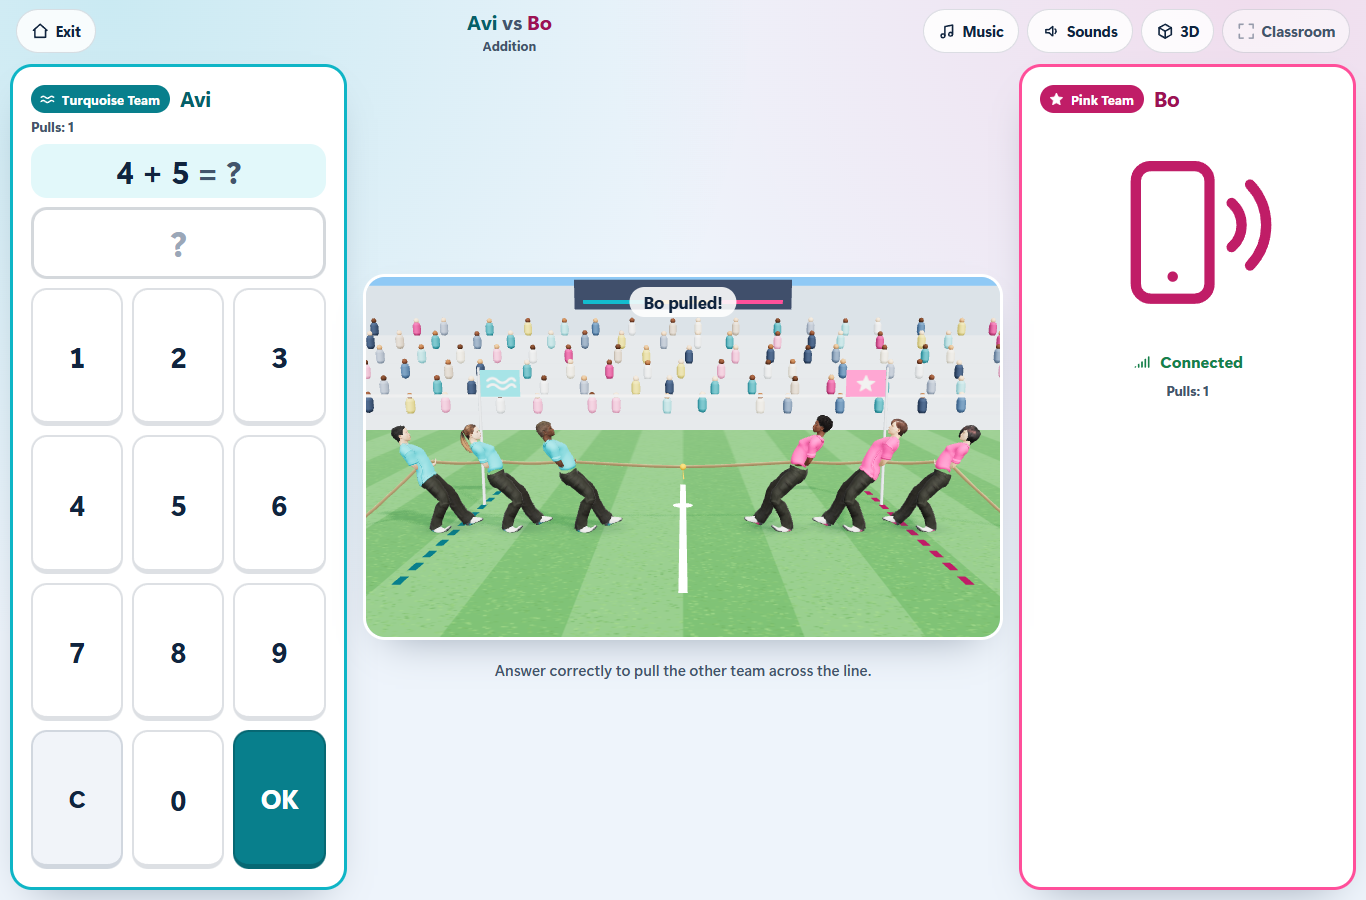
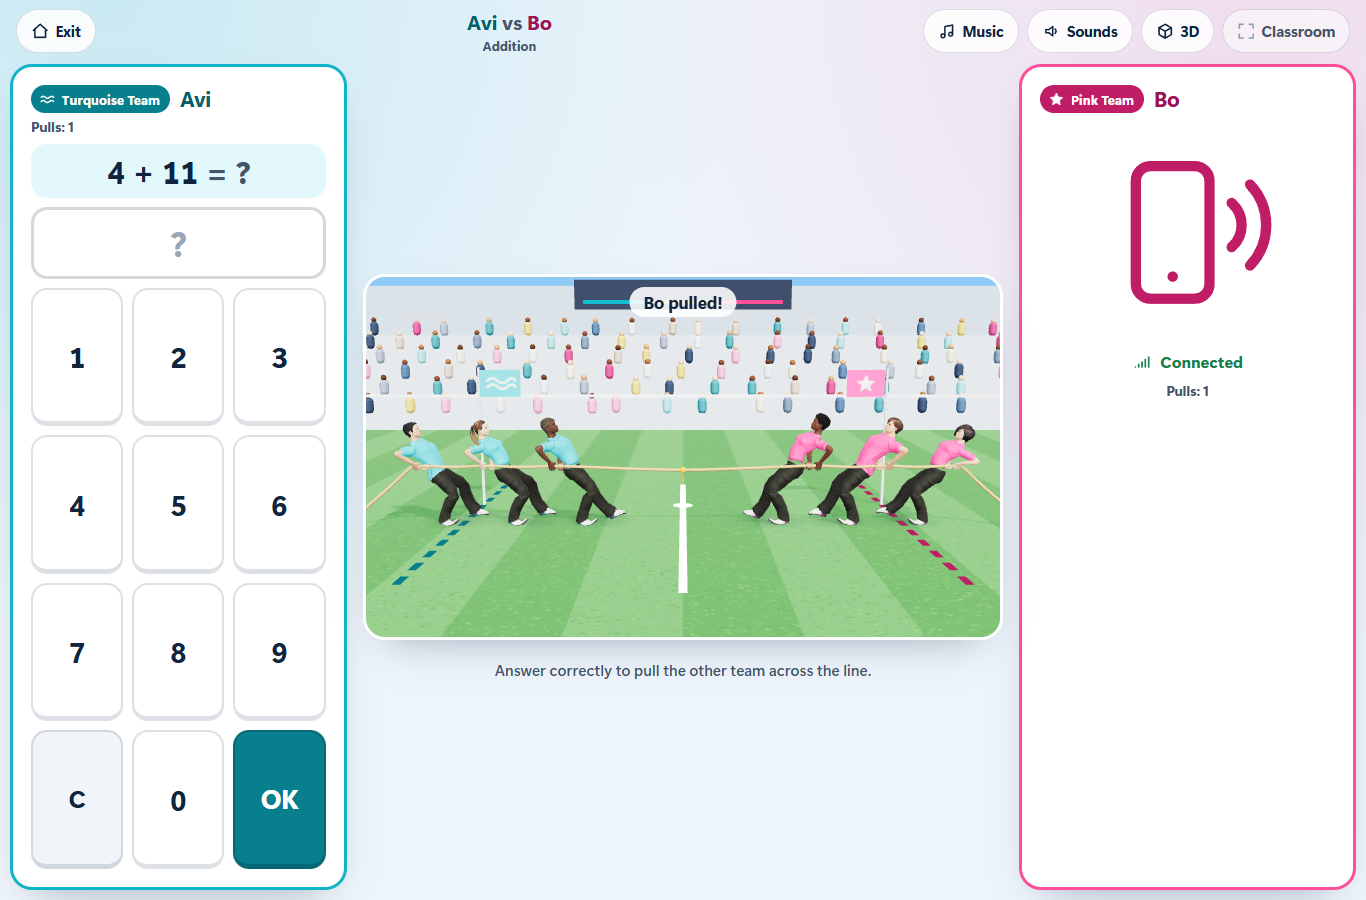
docs(games): Math Tug of War 3D visible rope grip: hosted staging results
Staging preview dpl_9oj299TLnvPsKQVmGX7GkG7Hf3tg (commit 3d23c9c): hosted 3D
review 41/41, including all 12 hands visibly on the rope from the gameplay
camera at rest and after a pull; hosted classic review 99/99. Hosted
staging screenshots refreshed; the pack gains a before/after taken by the
same hosted review on mathnexa.com (v1.2.22) and on the staging preview.

Changed region(s): [[0.2767, 0.4667, 0.7379, 0.5911], [0.0615, 0.1556, 0.1845, 0.2178]]

diff --git a/owner-review/math-tug-of-war-3d-v1/visible-grip/README.md b/owner-review/math-tug-of-war-3d-v1/visible-grip/README.md
@@ -61,7 +61,8 @@ the same on every tier; classic is the SVG scene), the 3D toggle (on by default 
 | 10 | `10-recording-all-six-pulling.webm` | All six pulling through six pulls (gameplay camera, scene enlarged to the frame) |
 | 11 | `11-recording-fist-holds-while-rope-moves.webm` | A front fist in close-up through six pulls both ways |
 | 12 | `12-recording-hands-release-at-victory.webm` | A match to the win: fists open as the rope drops, falls, celebration |
-| 13 | `measurements.md` / `measurements.json` | Per-hand player-camera pixels before / after on every device and through the match; per-fist coverage, channel angle and wrist angle |
+| 13 | `13-hosted-before-production-vs-after-staging.png` | The same hosted review script and view: mathnexa.com v1.2.22 (before) and the staging preview of this branch (after) |
+| 14 | `measurements.md` / `measurements.json` | Per-hand player-camera pixels before / after on every device and through the match; per-fist coverage, channel angle and wrist angle |
 
 ## Measurements (player camera; px of each hand visible / touching the rope)
 
@@ -89,6 +90,16 @@ Exact per-hand numbers: `measurements.md`.
 | Multiplayer (`run-math-tug-of-war-online-e2e.mjs`, local Supabase) | 13 passed, 1 skipped — incl. Online Match with the 3D scene on both clients |
 | New visual acceptance test against the **production** commit | **fails** (Turquoise front puller's left hand: 0 px visible from the gameplay camera) — it detects exactly this defect |
 | `solve-fists.mjs --check` | the committed fists regenerate byte-identically |
+
+## Hosted staging (protected preview)
+
+Preview `dpl_9oj299TLnvPsKQVmGX7GkG7Hf3tg` (project `mathnexa-platform-staging`, target preview, commit `3d23c9c`),
+`https://mathnexa-platform-staging-mqr9z5rts-bright-path-ed-tech.vercel.app/games/math-tug-of-war/play`:
+
+| Review | Result |
+| --- | --- |
+| Hosted 3D review (`invoke-math-tug-of-war-staging.ps1 -Stage review-3d`) | **41/41**: serves commit `3d23c9c`, runtime hash `79574206b9401535` (served = tested), route CSP unchanged, models / three.js / 3D modules byte-identical to source, tier medium with shadow maps; **all 12 hands visibly on the rope from the gameplay camera at rest (fewest 18 px touching) and after a pull (fewest 15 px)**; pulls mirrored, wrong answers ignored, celebration only after the confirmed win, toggle, auto tier (hardware GL → 3D, reduced motion / software GL → classic), phones 390 and 430, Smart Board, iPad WebKit, WebKit desktop, Online Match with the 3D scene on a Chromium host and a WebKit guest (pulls, winner, database agreement, rematch, leave); 0 page errors. Screenshots in `../staging/` |
+| Hosted classic review (`-Stage review`) | **99/99** |
 
 ## Performance (same machine, back to back, medium tier, 1366×768)
 

diff --git a/docs/math-tug-of-war-3d-v1.md b/docs/math-tug-of-war-3d-v1.md
@@ -88,6 +88,22 @@ Certification pass after the polish (the fourth commit on the branch; exact hash
 | Lint / typecheck | `npm run lint` 0 errors (8 pre-existing warnings elsewhere); `npm run typecheck` clean; the new e2e specs type-check with `tsc --noEmit` |
 | Review pack | regenerated: `owner-review/math-tug-of-war-3d-v1/` (47 files) |
 
+### Visible rope grip hotfix (after v1.2.22, branch `hotfix/math-tug-of-war-3d-visible-rope-grip` from `9c3917d`)
+
+The owner's check of the live v1.2.22 game found the pullers still not visibly holding the rope. Root cause,
+measured from the gameplay camera with `e2e/math-tug-of-war/player-camera-hands.ts`: the pullers stood
+between the camera and the rope, so the fists were behind the torso (8–11 of 12 hands with under 4 px on
+the visible rope, several 0 px visible); the grips hugged the hips; the fist was a fixed curl; the rope tube
+was wound inside-out; and the old "rope through the fist" test measured a rope built through the very point
+it checked. Fix and evidence: the **Grip** and **Rope** paragraphs above, and the owner pack
+`owner-review/math-tug-of-war-3d-v1/visible-grip/README.md` (before/after from the player's camera, all
+twelve fists from three angles, recordings, measurements, tests, performance). Local gates: unit 245/245 and
+891 (+1 skipped), typecheck, lint, build, security 315/315, classic browser projects 107 (+13 skipped),
+Chromium 3D 24 (+2 skipped), WebKit 3D 13/13, Online Match 13 (+1 skipped); the new visual acceptance test
+fails on `9c3917d` and passes on the fix. Hosted on the staging preview `dpl_9oj299TLnvPsKQVmGX7GkG7Hf3tg`
+(commit `3d23c9c`): 3D review 41/41 (including all 12 hands on the rope from the gameplay camera), classic
+review 99/99. Frame cost about +1 ms (5.7–6.1 → 6.8–7.0 ms, medium tier), 60 fps unchanged.
+
 ### Rope grip and sneakers hotfix (after v1.2.21, branch `hotfix/math-tug-of-war-3d-grip-sneakers` from `8046e67`)
 
 The owner's live inspection found the hands not convincingly holding the rope and asked for athletic sneakers. What was wrong: the old overhand pose put the *palm centre* on the rope line with the fingers draped over it, so the hands rested on the rope rather than closing around it; and the shoe meshes were bound mostly to the shin by MakeHuman's proxy fitting. The first close-up captures also showed "torn" hands and shoes, which turned out to be the review camera's 0.5 m near plane slicing geometry 0.4 m away, not the models (§4).
